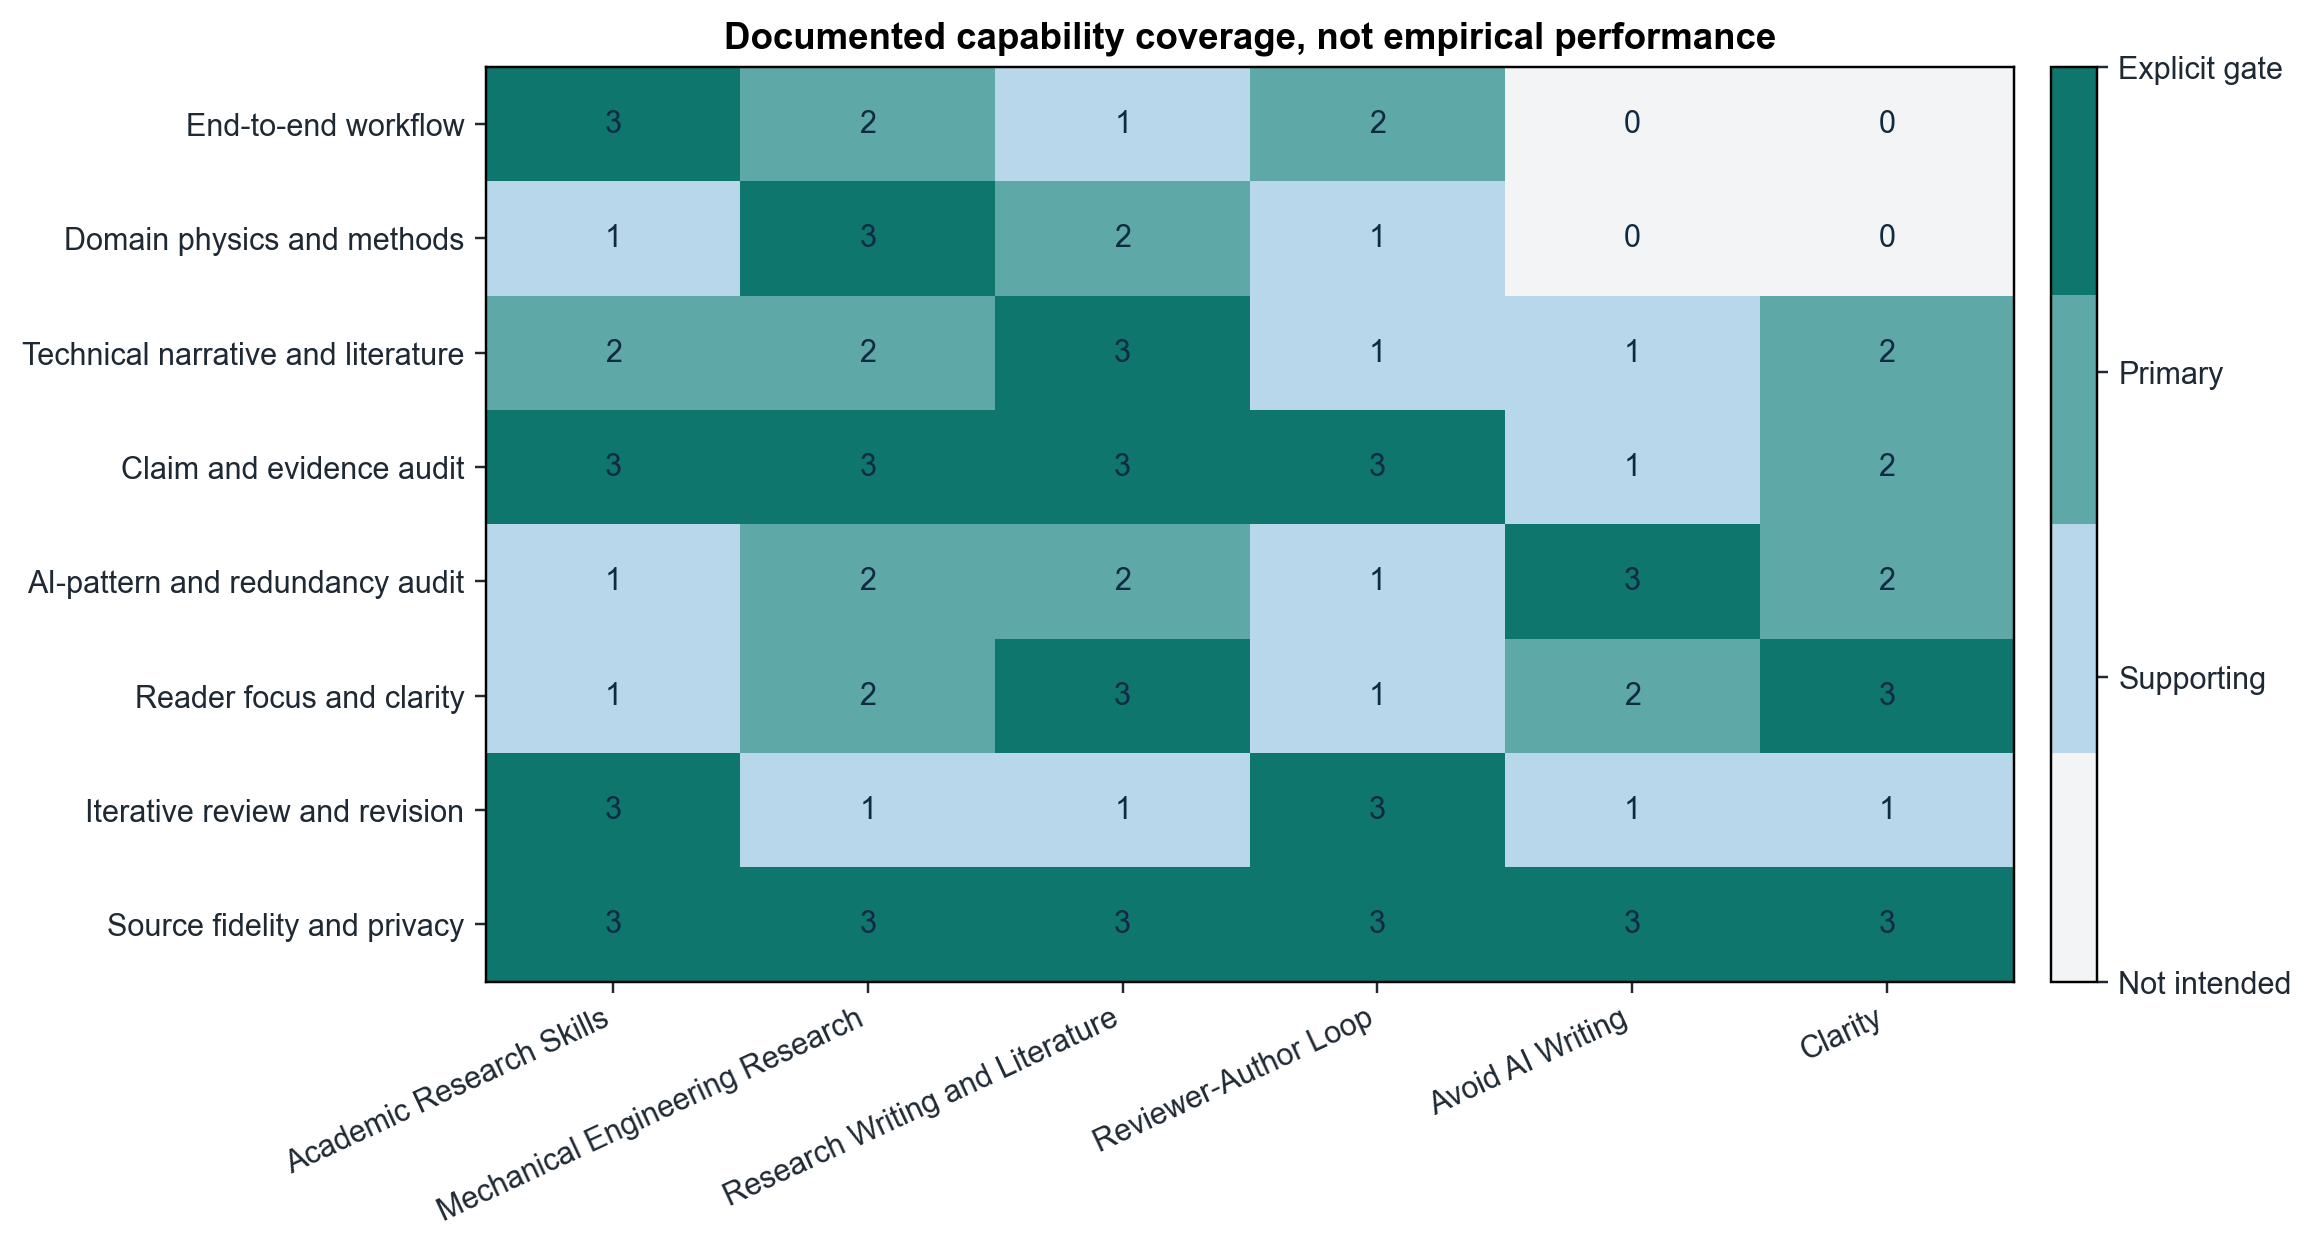
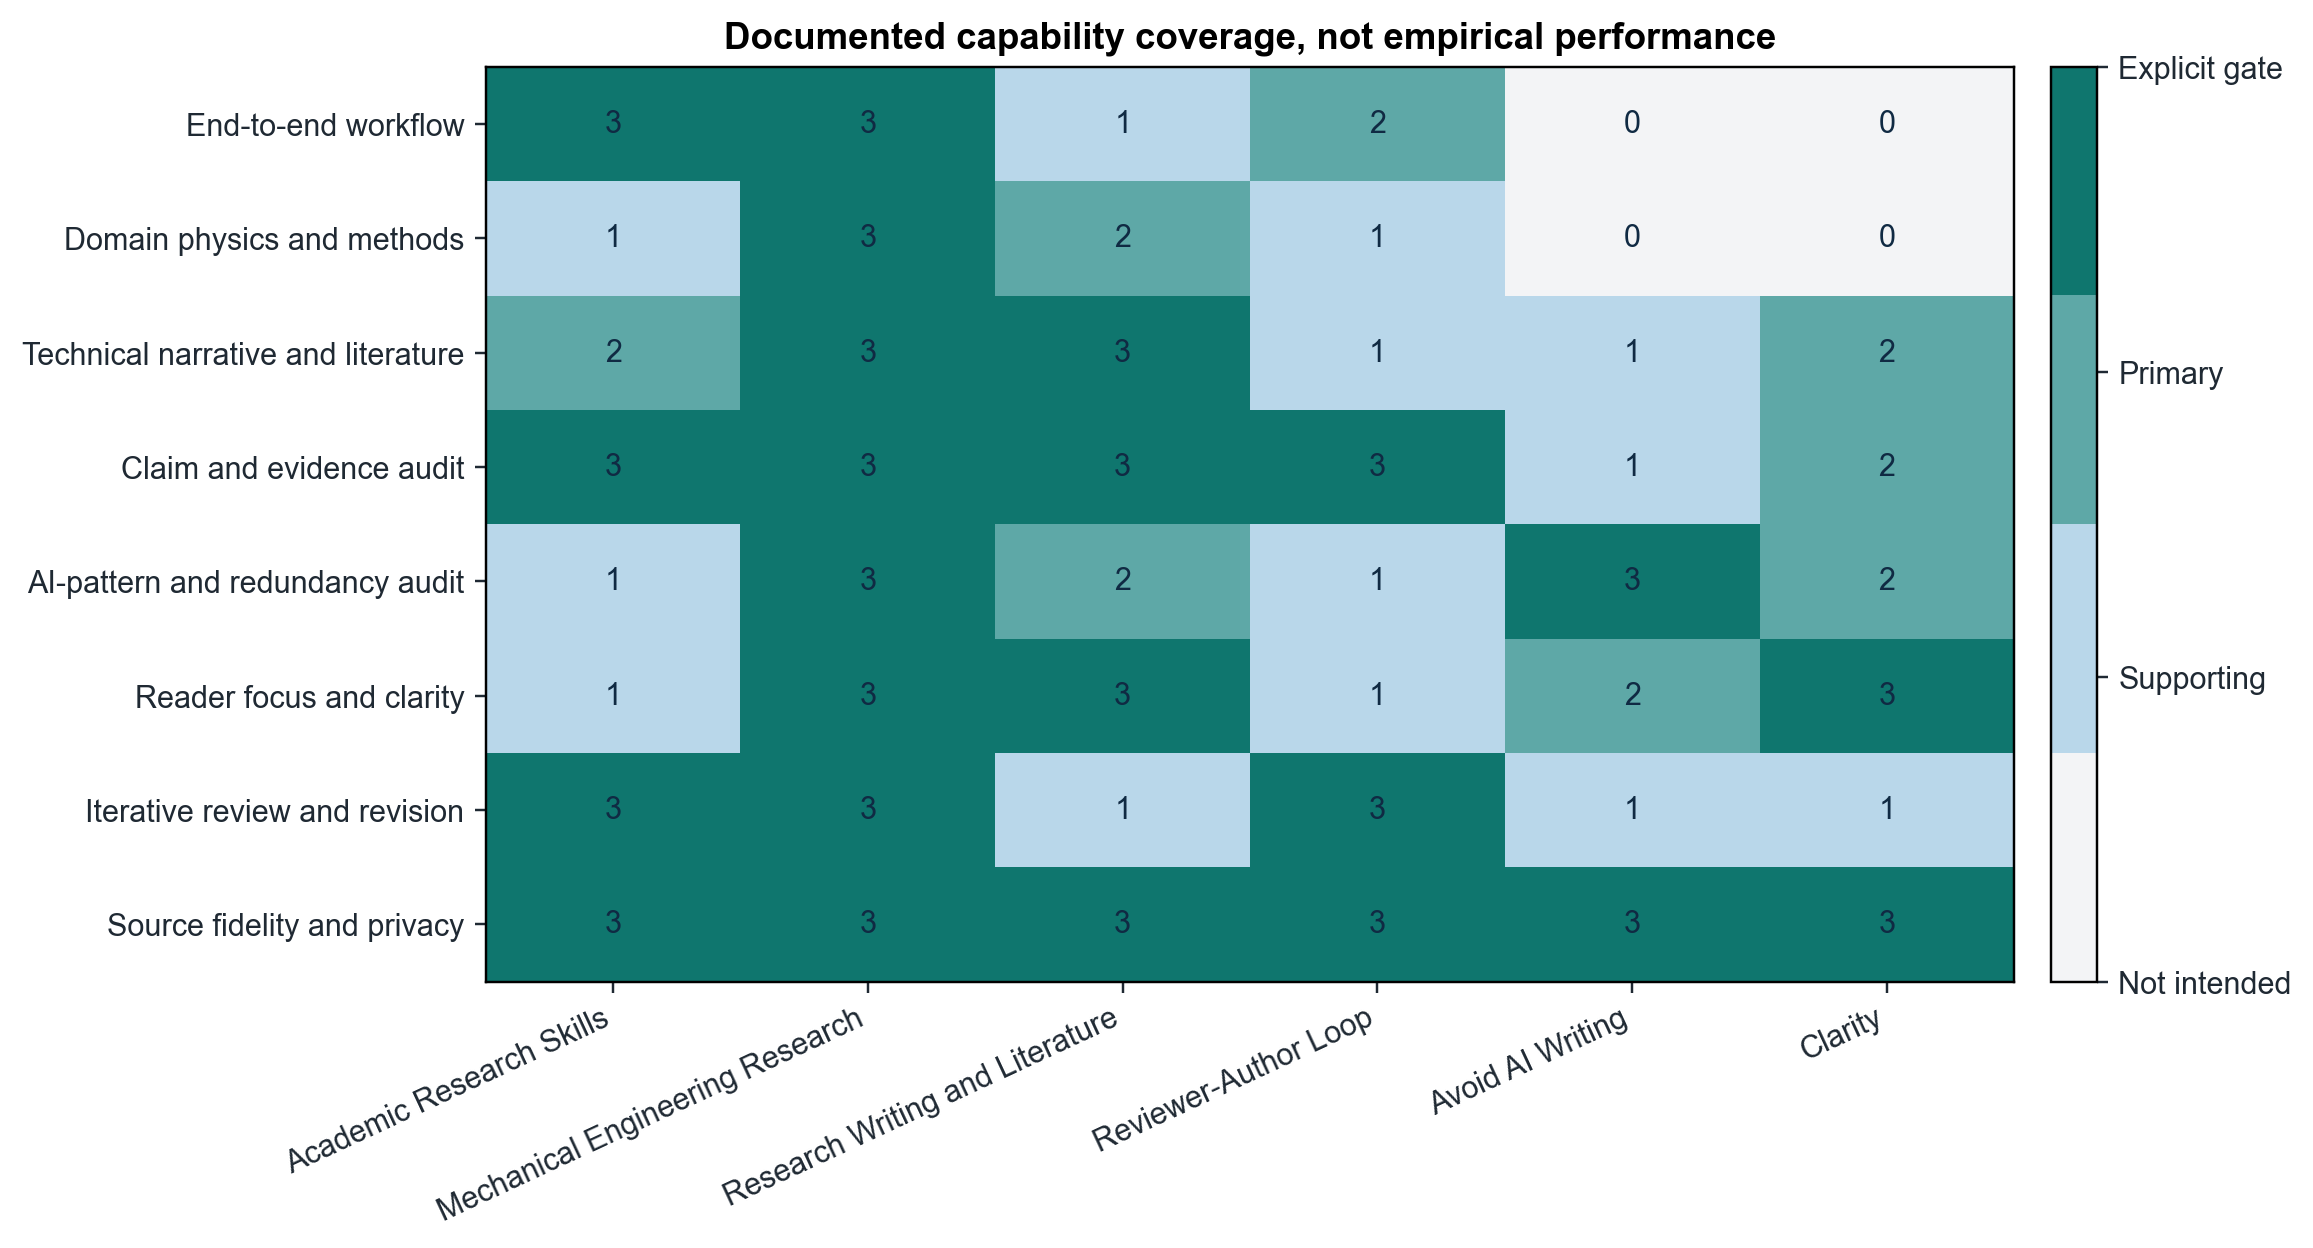
docs: clarify coordinated skill roles

Changed region(s): [[0.3113, 0.4062, 0.4358, 0.7188], [0.3113, 0.2188, 0.4358, 0.3438], [0.3113, 0.0312, 0.4358, 0.1562]]

diff --git a/docs/rqwb-capability-report/README.md b/docs/rqwb-capability-report/README.md
@@ -2,7 +2,11 @@
 
 ## Scope
 
-This public report compares six complementary skills by their documented intended functions. It is a benchmark-readiness artifact, not an outcome-performance evaluation. The 0-3 scores in the heatmaps represent the explicitness of instruction coverage. It contains no manuscript, proposal, student, reviewer, or source-packet content.
+This public report maps six complementary skills by their documented intended functions. It is a benchmark-readiness artifact, not an outcome-performance evaluation or a ranking. The 0-3 values in the heatmaps represent documented instruction coverage, not writing quality.
+
+The skills do not occupy the same architectural level. Mechanical Engineering Research (MER) is a domain coordinator: it selects specialist skills, including Research Writing and Literature (RWL) and Reviewer-Author Loop (RAL), while retaining the engineering evidence and integrity gates. RWL and RAL can also be used on their own for a focused task. A specialist can therefore have an equally explicit or narrower task instruction without being a stronger substitute for the coordinator. Evaluate workflow configurations, not isolated cells in these heatmaps.
+
+The report contains no manuscript, proposal, student, reviewer, or source-packet content.
 
 | Score | Meaning |
 | ---: | --- |
@@ -16,16 +20,16 @@ This public report compares six complementary skills by their documented intende
 | ID | Skill | Intended role | Appropriate claim now |
 | --- | --- | --- | --- |
 | ARS | Academic Research Skills | End-to-end academic workflow scaffold | It structures research-to-publication work and integrity checkpoints. |
-| MER | Mechanical Engineering Research | Domain coordinator and scientific-integrity gate | It brings physical assumptions, methods, evidence, and validity ranges into the workflow. |
+| MER | Mechanical Engineering Research | Domain coordinator, composition layer, and scientific-integrity gate | It routes to specialist writing and review workflows while bringing physical assumptions, methods, evidence, and validity ranges into the workflow. |
 | RWL | Research Writing and Literature | Technical narrative, literature, and argument layer | It directs literature synthesis, figure-led discussion, and technical-argument checks. |
-| RAL | Reviewer-Author Loop | Iterative critique, revision, and verification | It provides a reviewer, author, verifier, and re-review process. |
+| RAL | Reviewer-Author Loop | Specialist iterative critique, revision, and verification workflow | It provides a reviewer, author, verifier, and re-review process; MER invokes it when iterative peer-review work is needed. |
 | AAW | Avoid AI Writing | Pattern-aware, source-preserving edit | It identifies AI-associated patterns without treating them as authorship proof. |
 | CLAR | Clarity | Reader-centered prose and source fidelity | It focuses on what a reader can understand while preserving source-grounded meaning. |
 
 ## Figures
 
-1. `01_documented_capability_heatmap.png`: compares documented coverage across eight workflow capabilities.
-2. `02_intended_task_fit_heatmap.png`: maps documented task fit across seven benchmark genres.
+1. `01_documented_capability_heatmap.png`: maps documented coverage across eight workflow capabilities; it is not a ranking.
+2. `02_intended_task_fit_heatmap.png`: maps documented task fit across seven benchmark genres; MER coverage includes its documented routing to specialist skills.
 3. `03_case_design.png`: shows the 12-case benchmark design.
 4. `04_benchmark_readiness.png`: distinguishes candidate availability from actual evaluation evidence.
 5. `05_complementary_workflow_map.png`: explains why these tools should be composed rather than ranked as substitutes.

diff --git a/docs/rqwb-communication-guide.md b/docs/rqwb-communication-guide.md
@@ -20,9 +20,9 @@ AI-assisted writing does not become better by replacing a few suspicious words.
 The harder problem is that an AI draft can be grammatically correct yet scientifically thin, repetitive, overqualified, or difficult for a real reader to follow. I have been assembling a six-skill workflow for **research-quality writing**: writing that helps readers understand the problem, evidence, mechanism, limitation, and conclusion.
 
 1. [Academic Research Skills](https://github.com/Imbad0202/academic-research-skills) provides the broad research-to-publication workflow.
-2. [Mechanical Engineering Research](https://github.com/hanhuark/mechanical-engineering-research-skill/tree/main/skills/mechanical-engineering-research) adds domain judgment: physics, assumptions, validity ranges, methods, and uncertainty.
+2. [Mechanical Engineering Research](https://github.com/hanhuark/mechanical-engineering-research-skill/tree/main/skills/mechanical-engineering-research) is the domain coordinator: it adds physics, assumptions, validity ranges, methods, and uncertainty, and routes focused work to specialist skills.
 3. [Research Writing and Literature](https://github.com/hanhuark/mechanical-engineering-research-skill/tree/main/skills/research-writing-literature) focuses on narrative logic, literature synthesis, equation explanation, and figure discussion.
-4. [Reviewer-Author Loop](https://github.com/hanhuark/reviewer-author-loop-skill) supports critique, revision, verification, and re-review.
+4. [Reviewer-Author Loop](https://github.com/hanhuark/reviewer-author-loop-skill) supports critique, revision, verification, and re-review; it is also one of the specialist workflows that Mechanical Engineering Research can invoke.
 5. [Avoid AI Writing](https://github.com/conorbronsdon/avoid-ai-writing) flags patterns for contextual review without treating them as proof of authorship.
 6. [Clarity](https://github.com/addyosmani/clarity) asks the most important question: will a real reader understand the point?
 
